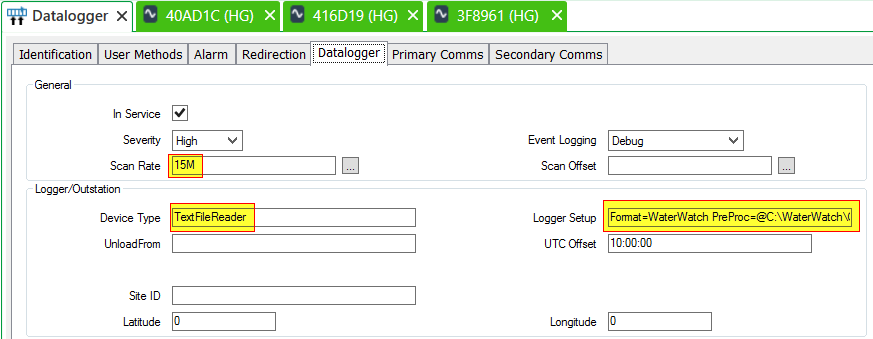
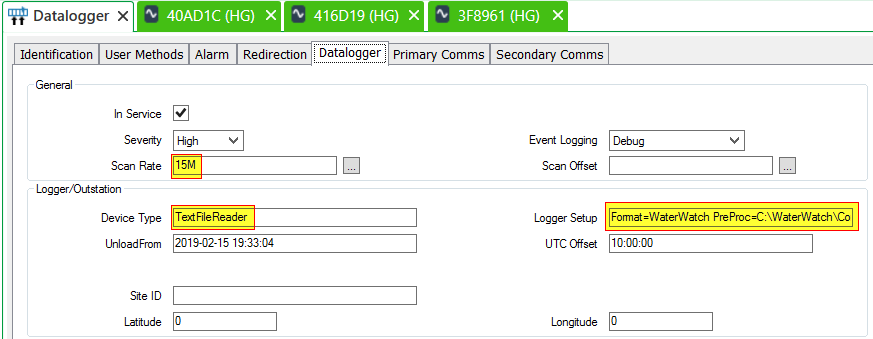
Issue-115 - Improved WaterWatch support for DAS and earlier EnviroSCADA versions
Now a positional file argument will be treated just like an @options.txt file, allowing the preprocessor to work with older products who expect a single preprocessor command line to always reference an existing file.

Also updated the readme to document the configuration differences between EnviroSCADA 2019.1 and earlier versions (the INI options are a bit different)

diff --git a/TimeSeries/PublicApis/SdkExamples/WaterWatchPreProcessor/Program.cs b/TimeSeries/PublicApis/SdkExamples/WaterWatchPreProcessor/Program.cs
@@ -1,5 +1,6 @@
 using System;
 using System.Collections.Generic;
+using System.Diagnostics;
 using System.Globalization;
 using System.IO;
 using System.Linq;
@@ -74,9 +75,18 @@ namespace WaterWatchPreProcessor
             JsConfig.DateHandler = DateHandler.UnixTimeMs;
         }
 
-        private static string GetProgramName()
+        public static string GetProgramName()
         {
             return Path.GetFileNameWithoutExtension(Assembly.GetEntryAssembly().Location);
+        }
+
+        public static string GetExecutingFileVersion()
+        {
+            var assembly = Assembly.GetExecutingAssembly();
+            var fileVersionInfo = FileVersionInfo.GetVersionInfo(assembly.Location);
+
+            // ReSharper disable once PossibleNullReferenceException
+            return $"{MethodBase.GetCurrentMethod().DeclaringType.Namespace} v{fileVersionInfo.FileVersion}";
         }
 
         private static Context ParseArgs(string[] args)
@@ -87,6 +97,13 @@ namespace WaterWatchPreProcessor
                 .SelectMany(ResolveOptionsFromFile)
                 .ToArray();
 
+            ParseArgsIntoContext(context, resolvedArgs);
+
+            return context;
+        }
+
+        private static void ParseArgsIntoContext(Context context, string[] resolvedArgs)
+        {
             var options = new[]
             {
                 new Option {Description = "https://waterwatch.io credentials"},
@@ -116,7 +133,8 @@ namespace WaterWatchPreProcessor
                 new Option
                 {
                     Key = nameof(context.OutputMode),
-                    Description = $"Measurement value output mode. One of {string.Join(", ", Enum.GetNames(typeof(OutputMode)))}.",
+                    Description =
+                        $"Measurement value output mode. One of {string.Join(", ", Enum.GetNames(typeof(OutputMode)))}.",
                     Setter = value => context.OutputMode = (OutputMode) Enum.Parse(typeof(OutputMode), value, true),
                     Getter = () => context.OutputMode.ToString(),
                 },
@@ -139,7 +157,7 @@ namespace WaterWatchPreProcessor
                     Description = "Number of days to sync data when a new sensor is detected.",
                     Setter = value => context.NewSensorSyncDays = int.Parse(value),
                     Getter = () => context.NewSensorSyncDays.ToString(),
-                }, 
+                },
 
                 new Option(), new Option {Description = "Sensor filtering options"},
                 new Option
@@ -183,6 +201,16 @@ namespace WaterWatchPreProcessor
                     if (HelpKeywords.Contains(arg))
                         throw new ExpectedException($"Showing help page\n\n{usageMessage}");
 
+                    if (File.Exists(arg))
+                    {
+                        // This is the magic which allows the preprocessor to be used in AQUARIUS DAS and EnviroSCADA 2018.1-or-earlier.
+                        // Those products require that a preprocessor has one and only one argument, which is a "script file".
+                        // This recursive call interprets any existing file as an @options.txt argument list.
+                        // This is not necessary for EnviroSCADA 2019.1+ or Connect, since both of those allow arbitrary preprocessor command line arguments.
+                        ParseArgsIntoContext(context, LoadArgsFromFile(arg).ToArray());
+                        continue;
+                    }
+
                     throw new ExpectedException($"Unknown command line argument: {arg}");
                 }
 
@@ -190,7 +218,8 @@ namespace WaterWatchPreProcessor
                 var value = match.Groups["value"].Value;
 
                 var option =
-                    options.FirstOrDefault(o => o.Key != null && o.Key.Equals(key, StringComparison.InvariantCultureIgnoreCase));
+                    options.FirstOrDefault(o =>
+                        o.Key != null && o.Key.Equals(key, StringComparison.InvariantCultureIgnoreCase));
 
                 if (option == null)
                 {
@@ -204,8 +233,6 @@ namespace WaterWatchPreProcessor
                 || string.IsNullOrEmpty(context.WaterWatchApiKey)
                 || string.IsNullOrEmpty(context.WaterWatchApiToken))
                 throw new ExpectedException($"Ensure your WaterWatch account credentials are set.");
-
-            return context;
         }
 
         private static readonly Regex ArgRegex = new Regex(@"^([/-])(?<key>[^=]+)=(?<value>.*)$", RegexOptions.Compiled);
@@ -224,6 +251,11 @@ namespace WaterWatchPreProcessor
 
             var path = arg.Substring(1);
 
+            return LoadArgsFromFile(path);
+        }
+
+        private static IEnumerable<string> LoadArgsFromFile(string path)
+        {
             if (!File.Exists(path))
                 throw new ExpectedException($"Options file '{path}' does not exist.");
 

diff --git a/TimeSeries/PublicApis/SdkExamples/WaterWatchPreProcessor/Exporter.cs b/TimeSeries/PublicApis/SdkExamples/WaterWatchPreProcessor/Exporter.cs
@@ -89,7 +89,11 @@ namespace WaterWatchPreProcessor
 
         private void CreateConnectedClient()
         {
-            Client = new JsonServiceClient("https://api.waterwatch.io/v1")
+            var uri = "https://api.waterwatch.io/v1";
+
+            Log.Info($"{Program.GetProgramName()} v{Program.GetExecutingFileVersion()} connecting to {uri} ...");
+
+            Client = new JsonServiceClient(uri)
             {
                 AlwaysSendBasicAuthHeader = true,
                 UserName = Context.WaterWatchApiKey,

diff --git a/TimeSeries/PublicApis/SdkExamples/WaterWatchPreProcessor/Readme.md b/TimeSeries/PublicApis/SdkExamples/WaterWatchPreProcessor/Readme.md
@@ -4,7 +4,7 @@ Download the latest version from [here](https://github.com/AquaticInformatics/ex
 
 The `WaterWatchPreProcessor.exe` is a console utility to extract time-series data from sensors in a [WaterWatch.io](https://www.waterwatch.io/) organisation account.
 
-The sensor data can be processed by [AQUARIUS EnviroSCADA](https://aquaticinformatics.com/products/aquarius-enviroscada/) or AQUARIUS Connect and appended to a time-series in [AQUARIUS Time-Series](https://aquaticinformatics.com/products/aquarius-time-series/).
+The sensor data can be processed by [AQUARIUS EnviroSCADA](https://aquaticinformatics.com/products/aquarius-enviroscada/), AQUARIUS DAS, or AQUARIUS Connect and appended to a time-series in [AQUARIUS Time-Series](https://aquaticinformatics.com/products/aquarius-time-series/).
 
 `WaterWatchPreProcessor.exe` is a stand-alone EXE. It requires no installer and can be run from any folder.
 
@@ -67,9 +67,9 @@ Iso8601UtcTime, SensorType, SensorSerial, Value
 2018-12-31T14:37:00.000Z, LS1, 40AD1C, 289.47586
 ```
 
-## Integrating with AQUARIUS Connect or AQUARIUS EnviroSCADA
+## Integrating with AQUARIUS Connect, or AQUARIUS EnviroSCADA, or AQUARIUS DAS
 
-The integration for both AQUARIUS Connect and AQUARIUS EnviroSCADA share some common configuration.
+The integration for the family of AQUARIUS data ingest products share some common configuration.
 
 In this example, we will map 3 [WaterWatch LS1 Remote Water Level](https://www.waterwatch.io/ls1-features) sensors to 3 "Stage" time-series, each in a separate AQUARIUS Time-Series location, using a time-series identifier pattern of "Stage.Telemetry@WW-$Serial".
 
@@ -79,13 +79,15 @@ In this example, we will map 3 [WaterWatch LS1 Remote Water Level](https://www.w
 | 3F8961 | Bulimba | Stage.Telemetry@WW-3F8961 |
 | 416D19 | Flinders Pde | Stage.Telemetry@WW-416D19 |
 
-On the Connect/EnviroSCADA app-server, create a `C:\WaterWatch` folder containing the following files:
+On the Connect/EnviroSCADA/DAS app-server, create a `C:\WaterWatch` folder containing the following files:
 
 | File | Description |
 | --- | --- |
 | `C:\WatchWatch\WaterWatchPreProcessor.exe` | The preprocessor executable. |
 | `C:\WatchWatch\Config.txt` | An [@options.txt](https://github.com/AquaticInformatics/examples/wiki/Common-command-line-options#use-the-filenameext-syntax-to-specify-options-in-a-text-file) file containing your WaterWatch.io credentials.<br/><br/>Connect and EnviroSCADA will set the preprocessor argument to `@C:\WatchWatch\Config.txt`, with a `@` at the start. |
 | `C:\WatchWatch\DummyFile.txt` | A simple file, whose contents don't matter. It can be empty or contain anything. The file just needs to exist. |
+
+- **Note:** - The containing folder (`C:\WaterWatch` in this example) should not contain any spaces. This will avoid problems trying interpret preprocessor arguments when the preprocessor executable is launched in a separate process.
 
 The following 10-line `Config.txt` file is a good starting point for a WaterWatch integration.
 
@@ -164,19 +166,35 @@ Now your Connect system will be polling the WaterWatch.io system every 15 minute
 
 ### Configuring EnviroSCADA to consume the output stream
 
-This configuration works with AQUARIUS EnviroSCADA 2019.1 and greater.
+This configuration works with AQUARIUS EnviroSCADA 2017.1 and greater.
 
 1) Add a new "WaterWatch" file format to the `[Device:TextFileReader]` section of `DriverDataLogger.ini`
+
+For EnviroSCADA 2019.1-or-newer:
 
 ```ini
 [Device:TextFileReader]
 ; ... existing file format settings ...
+; These settings are for EnviroSCADA 2019.1-or-newer
 WaterWatch.FileFormat=^\s*(?<Year>\d{4})-(?<Month>\d{2})-(?<Day>\d{2})T(?<Time>\d{2}:\d{2}:\d{2}\.\d{3})Z,\s*[^,]+,\s*$SensorP1,\s*(?<Value>.+)\s*$
 WaterWatch.PreProcessorExe=C:\WaterWatch\WaterWatchPreProcessor.exe
 WaterWatch.FolderPath=C:\WaterWatch
 WaterWatch.FileFilter=DummyFile.txt
 WaterWatch.CopyFilesLocally=false
 WaterWatch.IgnoreLastUnload=true
+```
+
+For EnviroSCADA 2018.1-or-earlier, the INI changes are slightly different:
+
+```ini
+[Device:TextFileReader]
+; ... existing file format settings ...
+; These settings are for EnviroSCADA 2018.1-or-earlier
+PreProcessorExe=C:\WaterWatch\WaterWatchPreProcessor.exe
+FileFormat.WaterWatch=^\s*(?<Year>\d{4})-(?<Month>\d{2})-(?<Day>\d{2})T(?<Time>\d{2}:\d{2}:\d{2}\.\d{3})Z,\s*[^,]+,\s*$SensorP1,\s*(?<Value>.+)\s*$
+HaltOnInvalidRows=true
+CopyFilesLocally=false
+IgnoreLastUnload.WaterWatch=true
 ```
 
 The `C:\Program Files\Schneider Electric\ClearSCADA\EnviroSCADA\DriverDataLogger.ini` file is only read once when the "DataLogger" module starts up.
@@ -195,11 +213,16 @@ In this example, we'll create a Group object named "Water Watch", containing:
 
 - Set the **Scan Rate** to the desired frequency (eg. "15M" for a 15-minute polling schedule)
 - Set the **Device Type** to `TextFileReader`
-- Set the **Logger Setup** string to `Format=WaterWatch PreProc=@C:\WaterWatch\Config.txt`
+- Set the **Logger Setup** string to a version-specific setup string:
+
+| EnviroSCADA version | **Logger Setup** value |
+| --- | --- |
+| 2019.1 and newer | `Format=WaterWatch PreProc=C:\WaterWatch\Config.txt` |
+| 2018.1 and earlier | `Format=WaterWatch PreProc=C:\WaterWatch\Config.txt MoveFile=False File=C:\WaterWatch\DummyFile.txt` |
 
 ![Datalogger object configuration](images/ScadaDataloggerConfig.png "Datalogger object configuration")
 
-Repeat steps 4 and 5 for each sensor to export into AQTS:
+Repeat steps 4 through 6 for each sensor to export into AQTS:
 
 4) Create a Group object named after the AQTS location and add one Analogue Point object into the group.
 
@@ -214,6 +237,12 @@ Repeat steps 4 and 5 for each sensor to export into AQTS:
 - Set the **Target Series ID** to the time-series identifier
 
 ![Sensor export to AQTS](images/ScadaSensorExport.png "Sensor export to AQTS")
+
+6) Enable historic data for the Analogue Point
+
+- Be sure to enable ClearSCADA historic data for the new Analogue Point
+
+![Sensor historic data](images/ScadaSensorHistoric.png "Sensor historic data")
 
 Now your EnviroSCADA system will be exporting WaterSensor measurements into your AQUARIUS Time-Series system.
 
